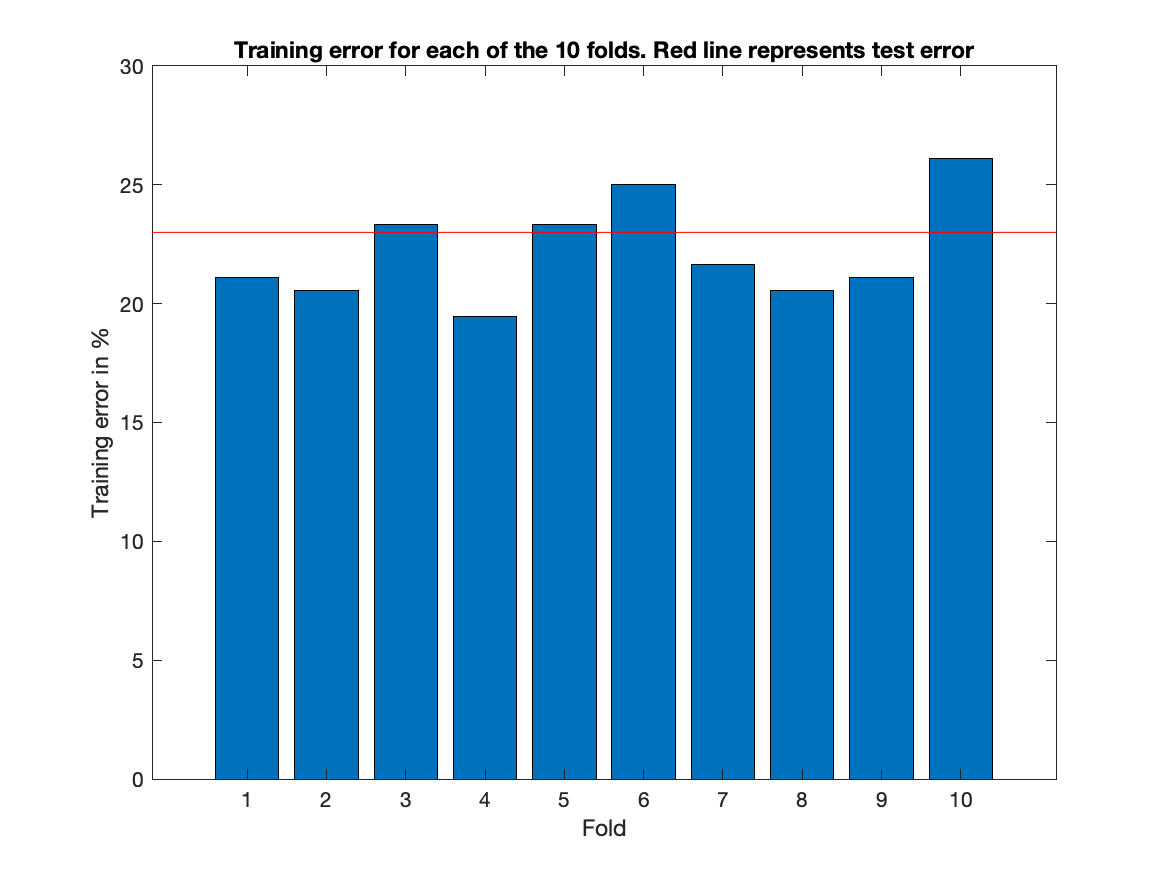
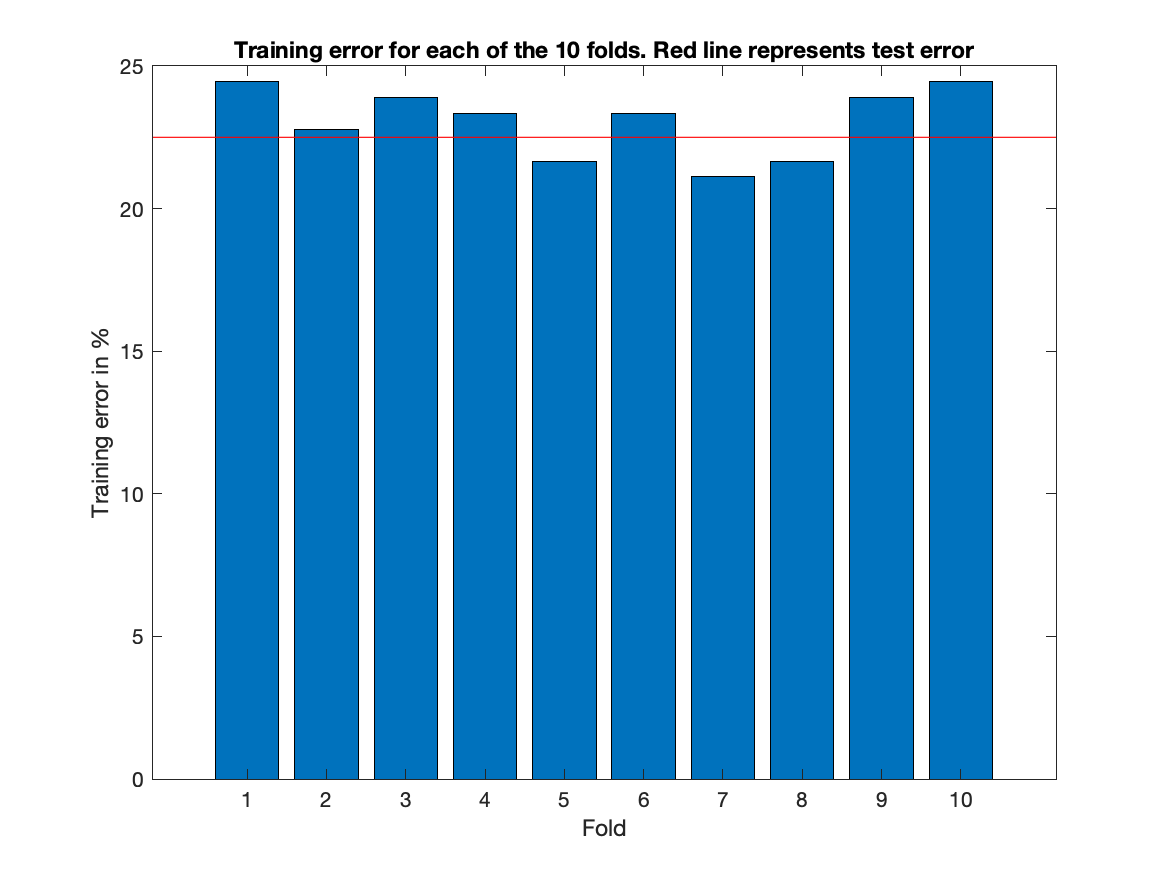
almost done with 3

diff --git a/lab-5/assignment-3/lvq_relevance.m b/lab-5/assignment-3/lvq_relevance.m
@@ -12,6 +12,8 @@ function [Error, prototypes, lambda_A, lambda_B] = lvq_relevance(epochs, P, data
     % Initialize relevances
     lambda_A = 0.5;
     lambda_B = 0.5;
+    n_lambda = 0.0001;
+    lambdas = [0 0];
     
     % Iterate over all the epochs
     for t = 1:epochs
@@ -36,8 +38,9 @@ function [Error, prototypes, lambda_A, lambda_B] = lvq_relevance(epochs, P, data
             distancesB = lambda_B * pdist2(prototypes(K(1)+1:end,:), example);
             distances = [distancesA; distancesB];
             [val, winner_idx] = min(distances);
-            
-
+            winner_dist = pdist2(prototypes(winner_idx, :), example);
+           
+           
             % Update the winner
 
             % Get the class for the prototype
@@ -52,18 +55,45 @@ function [Error, prototypes, lambda_A, lambda_B] = lvq_relevance(epochs, P, data
                 psi = -1;
                 % Misclassified if it reaches this so add one to error
                 Error(t) = Error(t) + 1;
-            end
-			
-            if (prototype_class == 1)
-                    %   Winner A 
-                    lambda_A = lambda_A + 0.001*psi;
+                if (prototype_class == 1)
+                    %   Prototype A
+                    lambda_A = lambda_A + (n_lambda * winner_dist);
+                else
+                    %   prototype B
+                    lambda_B = lambda_B + (n_lambda * winner_dist);
+                end
             else
+                % classification = correct
+                if (prototype_class == 1)
+                    %   Winner A 
+%                     lambda_A = lambda_A + 0.001*psi;
+                    lambda_A = max(lambda_A - (n_lambda * winner_dist), 0);
+                else
                     %   Winner B
-                    lambda_B = lambda_B + 0.001*psi;
+%                     lambda_B = lambda_B + 0.001*psi;
+                    lambda_B = max(lambda_B - (n_lambda * winner_dist), 0);
+                end
             end
             
+            %normalize lambdas
+            lambda_sum = lambda_A + lambda_B;
+            lambda_A = lambda_A / lambda_sum;
+            lambda_B = lambda_B / lambda_sum;
+            lambdas = [lambdas; lambda_A lambda_B];
+			
             % Update the winner
             prototypes(winner_idx, :) = prototypes(winner_idx,:) + n * psi *(example - prototypes(winner_idx,:));
-        end   
+        end
+        if t > 5
+            if sum(Error(t) > Error(t-5:t-1)) == 5
+                Error = Error(1:t);
+                break
+            end
+        end
     end
+    fig = figure(3);
+    hold on
+    plot(1:t, Error(1:t))
+%     hold on
+%     plot(1:size(lambdas, 1), lambdas(:,2))
 end

diff --git a/lab-5/assignment-3/lab5_3.m b/lab-5/assignment-3/lab5_3.m
@@ -21,12 +21,13 @@ function f = lab5_3()
     % convert data into 'folds' equally sized partitions
     [r,c] = size(data);
     partitions = permute(reshape(data',[c,r/folds,folds]),[2,1,3]);
-    epochs = 300;
+    epochs = 200;
     n = 0.01;
     K = [2, 1];
     training_error = zeros(folds,1);
     classification_error = zeros(folds,1);
     for i = 1:folds
+        disp(i)
         [train_data, test_data] = get_train_data(partitions, i, folds);
         P_train = size(train_data, 1);
         P_test = size(test_data, 1);
